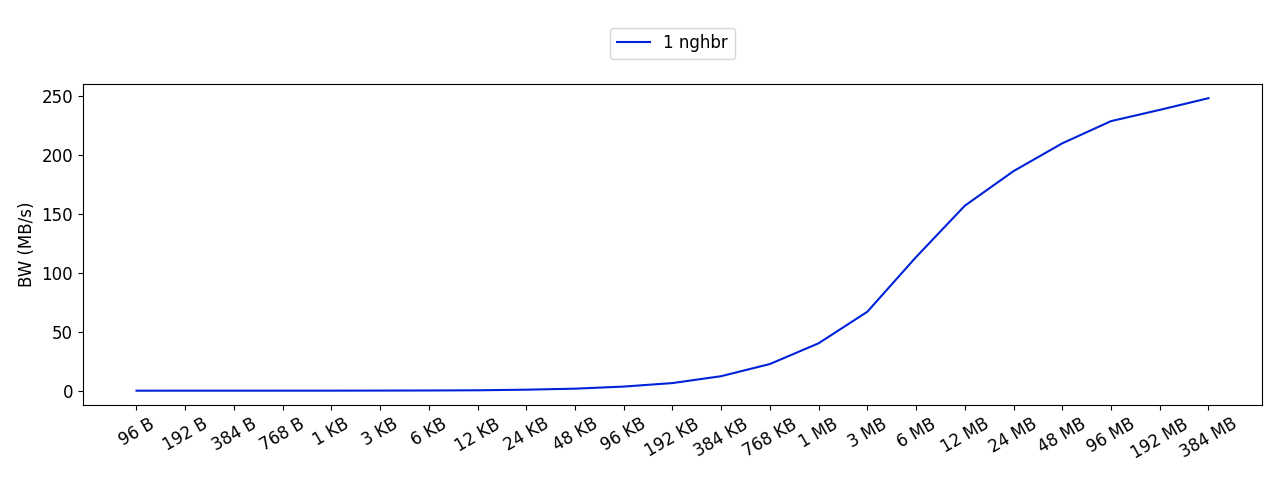
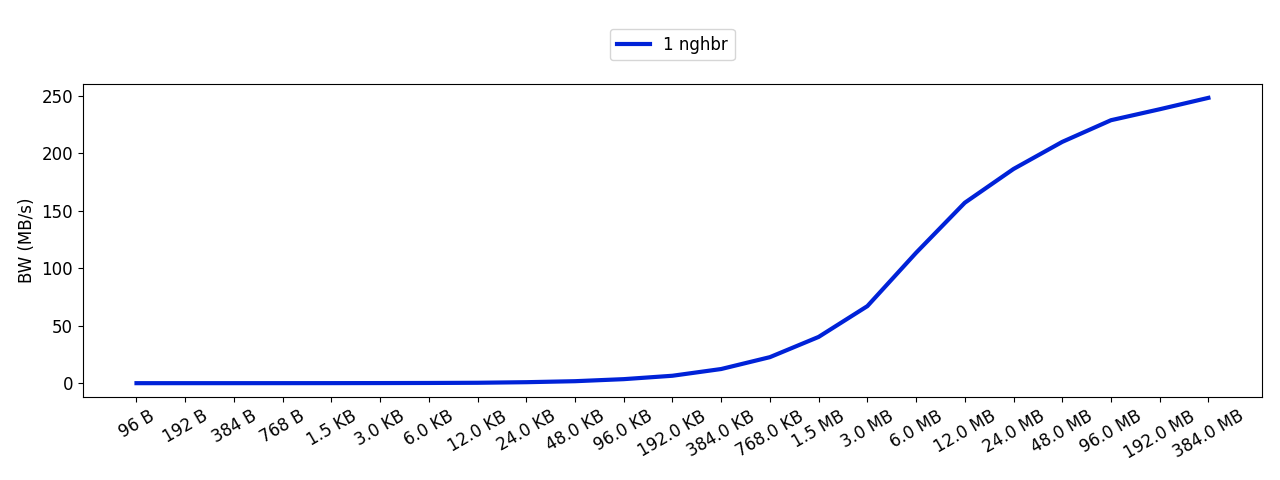
updated plots

diff --git a/exps/plot.py b/exps/plot.py
@@ -28,10 +28,10 @@ def get_x_ys(exp_type, max_gpus):
                 x = '{} B'.format(data_size)
                 if data_size > 10 ** 3 and data_size < 10 ** 6:
                     data_size_readable = data_size / 1024
-                    x = '{} KB'.format(int(data_size_readable))
+                    x = '{} KB'.format(float(data_size_readable))
                 elif data_size > 10 ** 6:
                     data_size_readable = data_size / 1024 / 1024
-                    x = '{} MB'.format(int(data_size_readable))
+                    x = '{} MB'.format(float(data_size_readable))
                 x_series.append(x)
                 y_series.append(out_bw)
         xs.append(x_series)
@@ -61,7 +61,7 @@ for i in range(len(xs)):
     # Generate a random linestyle from the list
     linestyle = 'solid'
     # Plot the line with the color and linestyle and label it with i
-    ax.plot(xs[i], ys[i], color=color, linestyle=linestyle, label=labels[i])
+    ax.plot(xs[i], ys[i], color=color, linestyle=linestyle, label=labels[i], lw=3)
 
 # Add a legend and put it outside the plot
 ax.legend(loc='upper center', bbox_to_anchor=(0.5, 1.2), ncol=5)
